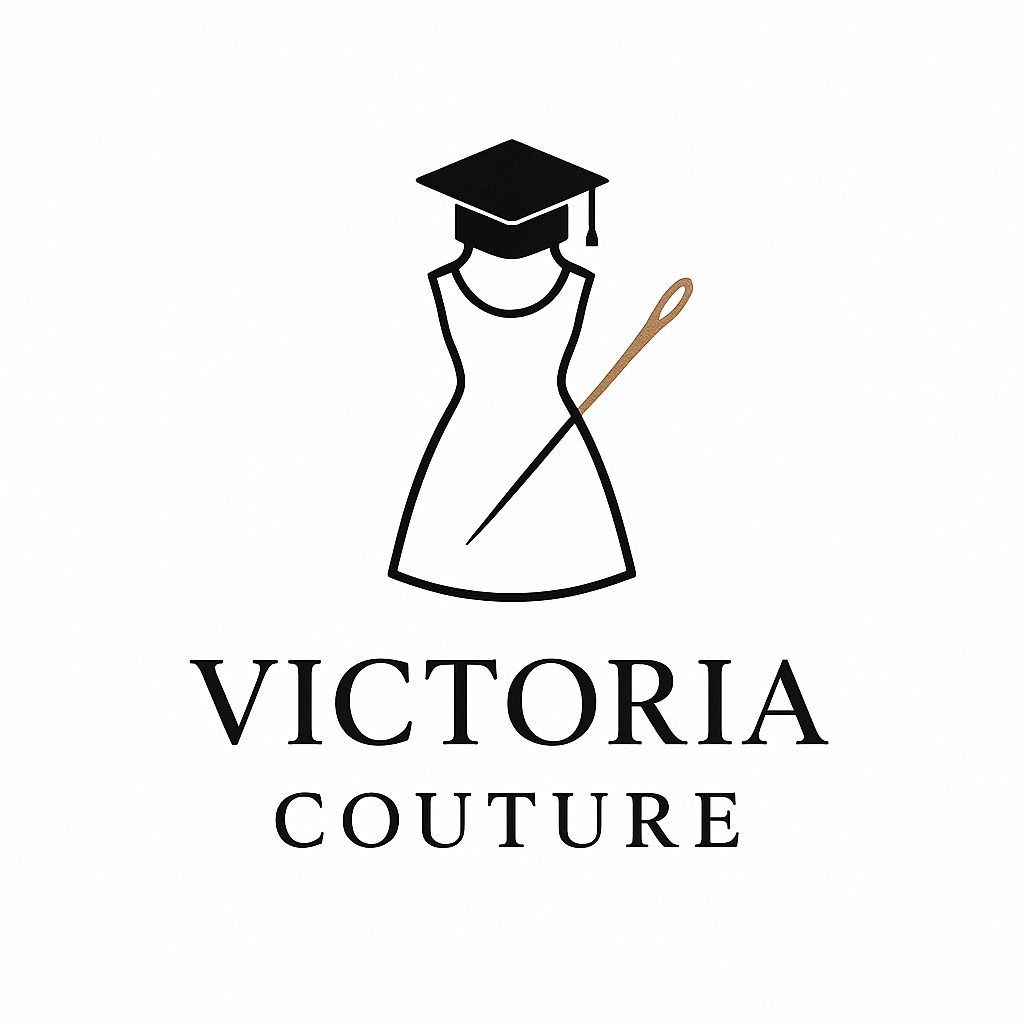
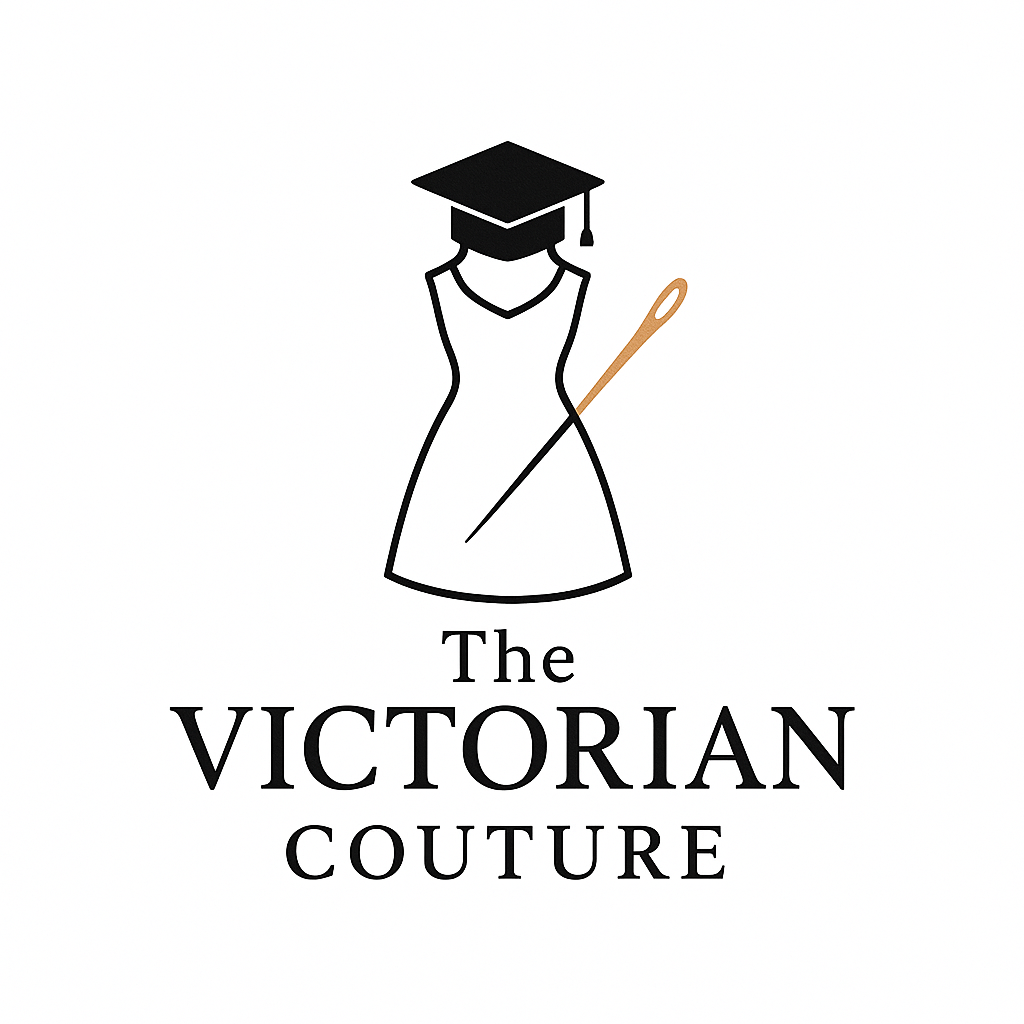
Updated homepage for fashion and teaching

diff --git a/index.html b/index.html
@@ -3,7 +3,7 @@
 <head>
   <meta charset="UTF-8">
   <meta name="viewport" content="width=device-width, initial-scale=1.0">
-  <title>Victoria Couture | Fashion Designer & Teacher</title>
+  <title>The Victorian Couture | Fashion Designer & Teacher</title>
   <link rel="preconnect" href="https://fonts.googleapis.com">
   <link rel="preconnect" href="https://fonts.gstatic.com" crossorigin>
   <link href="https://fonts.googleapis.com/css2?family=Playfair+Display:wght@400;700&family=Poppins:wght@300;400;600&display=swap" rel="stylesheet">
